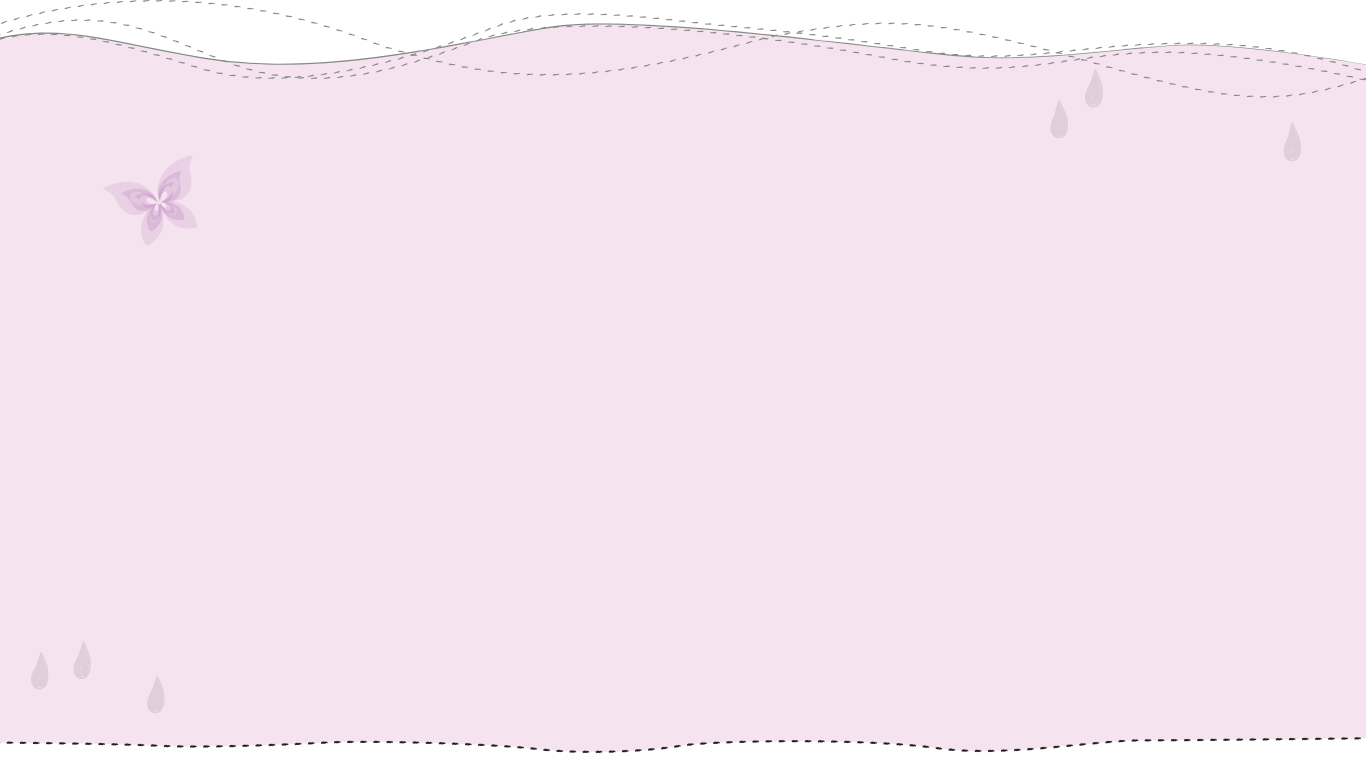
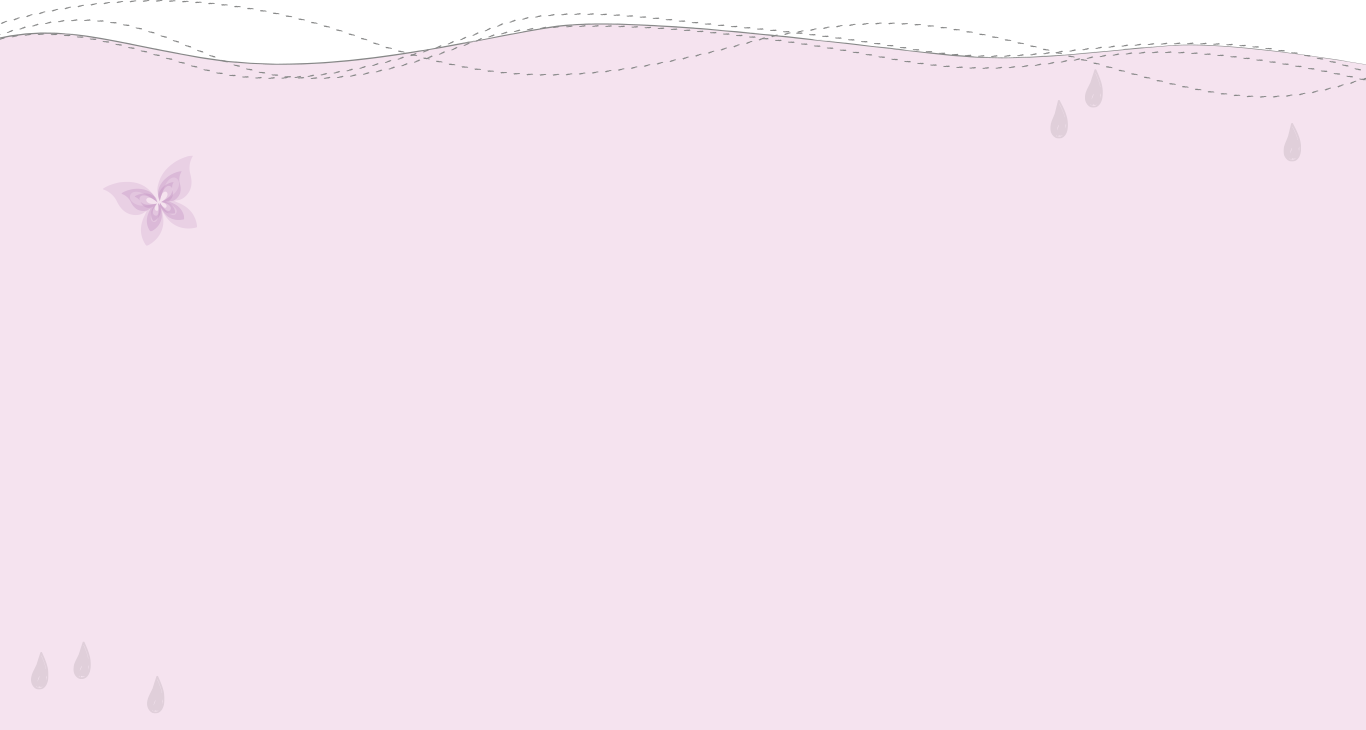
section 10 added

diff --git a/assets/sass/style.scss b/assets/sass/style.scss
@@ -290,12 +290,20 @@ a {
 .section9 {
   //padding: 30px 0;
   width: 100%;
-  height: 113vh;
+  height: 115vh;
   background: url("../img/section9-bg.png") no-repeat;
   background-size: cover;
   position: relative;
   overflow: hidden;
 
+  &:after {
+    background: url("../img/section9-bottom-line.png") repeat-x;
+    width: 100%;
+    height: 35px;
+    content: '';
+    position: absolute;
+    bottom: 0;
+  }
   .container {
     position: relative;
     height: 100%;

diff --git a/assets/css/style.css b/assets/css/style.css
@@ -302,11 +302,19 @@ a {
 /* SECTION 9 STYLE */
 .section9 {
   width: 100%;
-  height: 113vh;
+  height: 115vh;
   background: url("../img/section9-bg.png") no-repeat;
   background-size: cover;
   position: relative;
   overflow: hidden;
+}
+.section9:after {
+  background: url("../img/section9-bottom-line.png") repeat-x;
+  width: 100%;
+  height: 35px;
+  content: '';
+  position: absolute;
+  bottom: 0;
 }
 .section9 .container {
   position: relative;

diff --git a/index.html b/index.html
@@ -212,6 +212,11 @@
             </div>
         </div>
     </section>
+    <section class="section10">
+        <div class="center">
+            <img src="assets/img/section10-img.png" alt="section img">
+        </div>
+    </section>
 
     <script type="text/javascript" src="bower_components/jQuery/dist/jquery.min.js"></script>
     <script type="text/javascript" src="bower_components/bootstrap/dist/js/bootstrap.min.js"></script>
